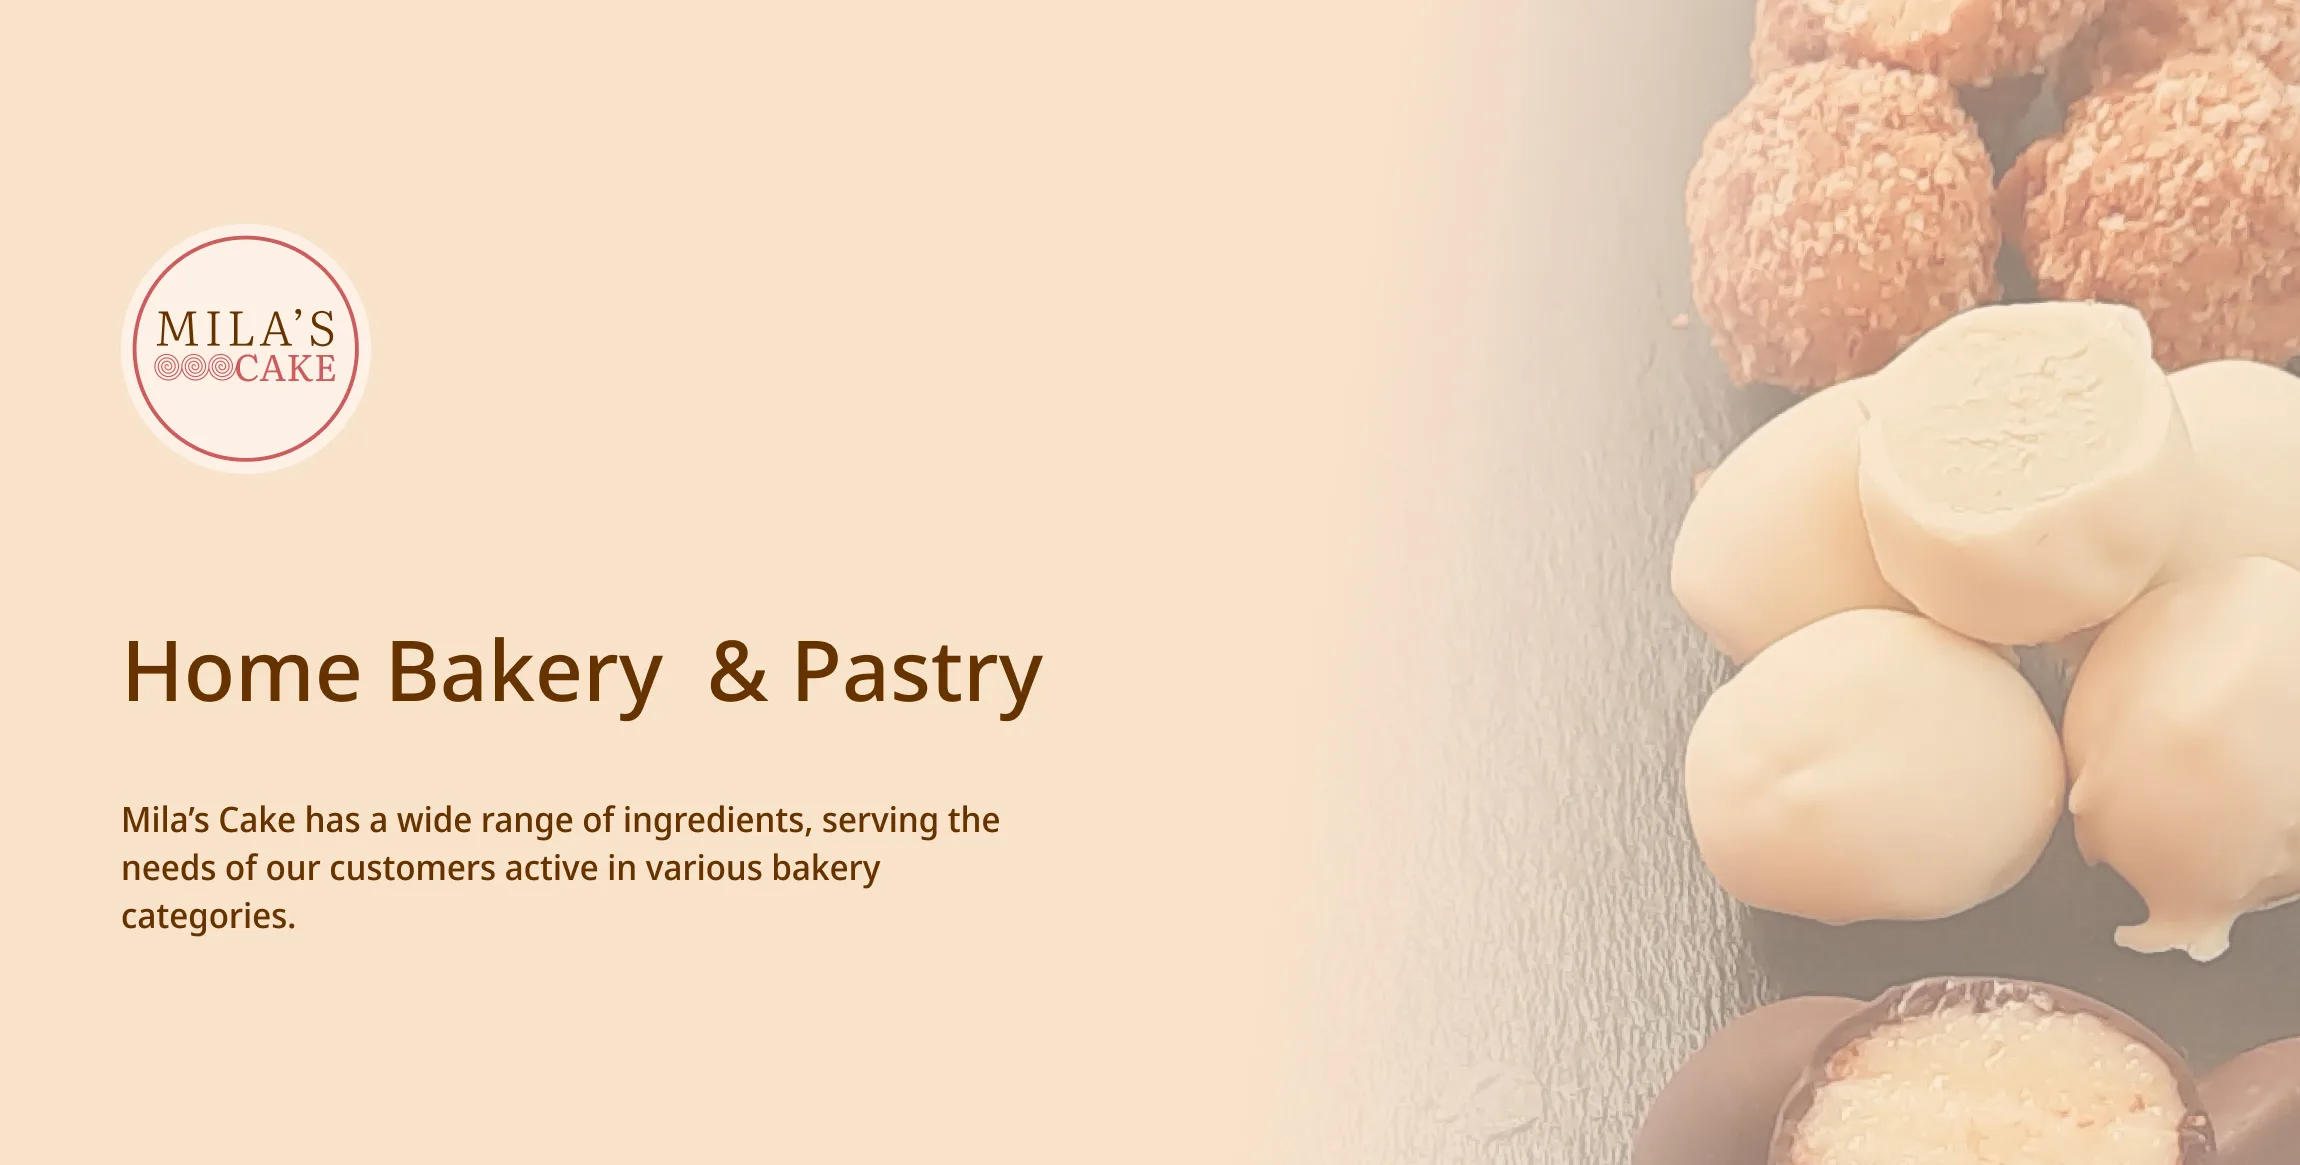
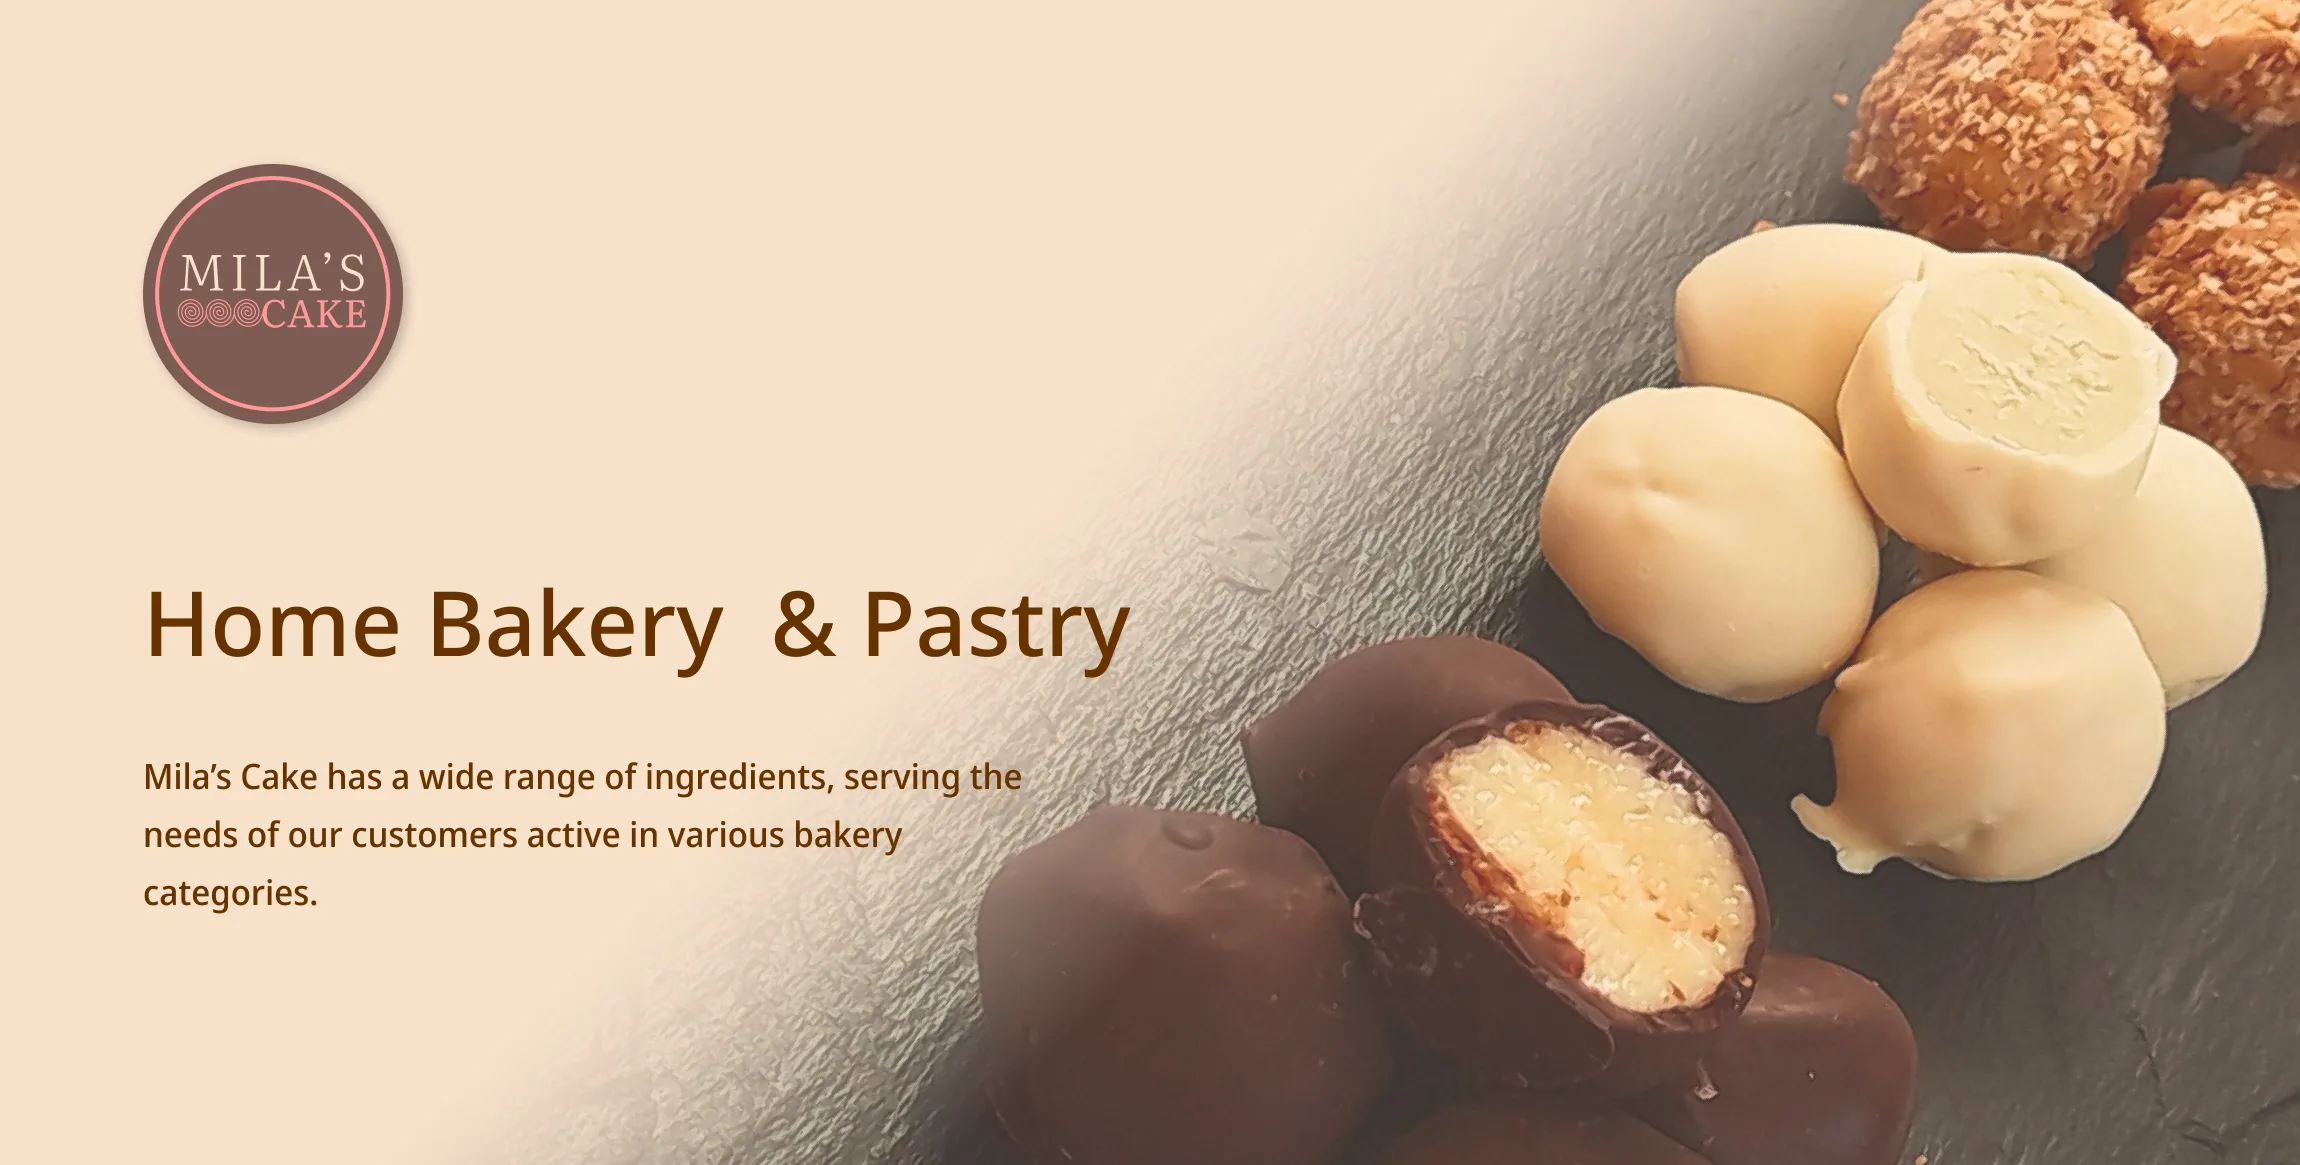
change hero baner

diff --git a/src/components/NavMenu/NavMenu.jsx b/src/components/NavMenu/NavMenu.jsx
@@ -1,12 +1,12 @@
 import React from 'react';
 import { NavLink } from 'react-router-dom';
-import classnames from 'classnames';
 import styles from './styles.module.css';
 import { useState } from 'react';
 import { Button } from '../Button/Button';
 import useOnclickOutside from 'react-cool-onclickoutside';
 import { useContext } from 'react';
 import { ThemeContext } from '../ThemeContextProvider/ThemeContext';
+import classnames from 'classnames';
 
 export const NavMenu = ({ className }) => {
   const [open, setOpen] = useState(false);
@@ -40,27 +40,27 @@ export const NavMenu = ({ className }) => {
           theme === 'default' ? styles.dark : 'default'
         )}
       >
-        <li className={className}>
+        <li className={classnames(className, styles.navLink) }>
           <NavLink className={activeClass} to="/">
             home
           </NavLink>
         </li>
-        <li className={className}>
+        <li className={classnames(className, styles.navLink) }>
           <NavLink className={activeClass} to="/products">
             products
           </NavLink>
         </li>
-        <li className={className}>
+        <li className={classnames(className, styles.navLink) }>
           <NavLink className={activeClass} to="/location">
             location
           </NavLink>
         </li>
-        <li className={className}>
+        <li className={classnames(className, styles.navLink) }>
           <NavLink className={activeClass} to="/delivery">
             delivery
           </NavLink>
         </li>
-        <li className={className}>
+        <li className={classnames(className, styles.navLink) }>
           <NavLink className={activeClass} to="/recipes">
             recipes
           </NavLink>

diff --git a/src/components/SectionHero/SectionHero.jsx b/src/components/SectionHero/SectionHero.jsx
@@ -2,9 +2,14 @@ import React from "react";
 import classnames from 'classnames';
 import styles from './styles.module.css';
 import intorImg from './img/desktop.webp';
-import intorImgMobile from './img/mob.webp';
+import intorImgMobile from './img/mobile.webp';
+import { useWindowScroll } from '../../hooks/useWindowScroll';
+
+import AnchorLink from 'react-anchor-link-smooth-scroll';
 
 export const SectionHero = ({className}) => {
+  const { sticky } = useWindowScroll();
+
 
    return (
      <section className={classnames(styles.root, className)}>
@@ -21,6 +26,16 @@ export const SectionHero = ({className}) => {
          />
          <img src={intorImg} alt="img" />
        </picture>
+
+       <AnchorLink
+         offset="79"
+         href="#newDesserts"
+         className={classnames(styles.button, className, {
+           [styles.hidden]: sticky.isSticky,
+         })}
+       >
+         &#8659;
+       </AnchorLink>
      </section>
    );
 }

diff --git a/src/components/SectionNewDesserts/SectionNewDesserts.jsx b/src/components/SectionNewDesserts/SectionNewDesserts.jsx
@@ -21,8 +21,8 @@ export const SectionNewDesserts = () => {
   );
 
   return (
-    <section className={classnames(styles.root)}>
-      <h1 className={styles.title}>New Seasonal Desserts</h1>
+    <section id="newDesserts" className={classnames(styles.root)}>
+      <h2 className={styles.title}>New Seasonal Desserts</h2>
       <div className={styles.buttonConteiner}>
         <div className={styles.carouselInner}>
           <Products
@@ -35,13 +35,13 @@ export const SectionNewDesserts = () => {
           onClick={leftTranslate}
           className={classnames(styles.buttonCarousel, styles.buttonLeft)}
         >
-          {'<'}
+          &laquo;
         </Button>
         <Button
           onClick={rightTranslate}
           className={classnames(styles.buttonCarousel, styles.buttonRight)}
         >
-          {'>'}
+          &raquo;
         </Button>
       </div>
     </section>

diff --git a/src/components/SectionHero/styles.module.css b/src/components/SectionHero/styles.module.css
@@ -1,5 +1,48 @@
+.root{
+    position: relative;
+}
 .root img {
     height: auto;
     width: 100%;
 
+}
+.button{
+background-color: var(--Linen);
+border-radius: 20px;
+padding: 17px 10px;
+position: absolute;
+font-weight: 700;
+font-size: 2rem;
+top: 76%;
+right: 100px;
+box-shadow: rgba(0, 0, 0, 0.1) 0px 1px 3px 0px, rgba(0, 0, 0, 0.06) 0px 1px 2px 0px;
+}
+.button:hover {
+    background-color: var(--MexicanRed);
+    color: var(--Linen);
+}
+.hidden {
+    animation: fadeScroll .5s forwards ease;
+}
+
+@keyframes fadeScroll {
+        0% {
+                transform: scaleY(1);
+        }
+
+        100% {
+                transform: scaleY(0);
+        }
+}
+
+@media screen and (max-width: 767px) {
+
+    .button {
+        width: 36px;
+        height: 75px;
+        padding-top: 27px;
+        top: 60%;
+        left: 50%;
+        transform: translate(-50%, 50%);
+    }
 }

diff --git a/src/components/NavMenu/styles.module.css b/src/components/NavMenu/styles.module.css
@@ -6,8 +6,29 @@
 }
 
 .active {
-    border-bottom: 2px solid ghostwhite;
+    border-bottom: 1px solid ghostwhite;
     cursor: default;
+    padding-bottom: 4px;
+}
+
+.navLink{
+    position: relative;
+}
+.navLink::before {
+    content: "";
+    position: absolute;
+    left: 0;
+    bottom: -5px;
+    width:100%;
+    height: 1px;
+    z-index: -1;
+    background-color: ghostwhite;
+    transform: scaleX(0);
+    transition: transform .4s ease;
+}
+
+.navLink:hover::before {
+    transform: scaleX(1);
 }
 
 .nav button {
@@ -91,7 +112,7 @@
     }
 
     .navOpen .list li {
-        margin: 35px 0;
+        margin: 65px 0;
     }
 }
 

diff --git a/src/components/SectionCakes/SectionCakes.jsx b/src/components/SectionCakes/SectionCakes.jsx
@@ -15,7 +15,9 @@ export const SectionCakes = () => {
     <section className={styles.root}>
       <h2 className={styles.title}>Cakes</h2>
       <Products
-        className={classnames(styles.list, { [styles.fullSizeStyle]: fullSize })}
+        className={classnames(styles.list, {
+          [styles.fullSizeStyle]: fullSize,
+        })}
         productId={cakeProductId}
       />
       <Button
@@ -24,7 +26,7 @@ export const SectionCakes = () => {
         })}
         onClick={() => setfullSize(!fullSize)}
       >
-        {'V'}
+        &or;
       </Button>
     </section>
   );

diff --git a/src/components/Theme/styles.module.css b/src/components/Theme/styles.module.css
@@ -1,12 +1,13 @@
 .root{
         padding: 12px;
         box-shadow: none;
+        position: fixed;
 }
 .sticky {
         animation: fadeScroll .5s forwards ease;
 }
 
-@keyframes fadeScroll {
+/* @keyframes fadeScroll {
         0% {
                 transform: scaleY(1);
         }
@@ -14,7 +15,7 @@
         100% {
                 transform: scaleY(0);
         }
-}
+} */
 @media screen and (max-width: 767px) {
         .root {
                 padding: 5px;

diff --git a/src/components/Reviews/Reviews.jsx b/src/components/Reviews/Reviews.jsx
@@ -33,13 +33,13 @@ export const Reviews = () => {
           onClick={leftTranslate}
           className={classnames(styles.buttonCarousel, styles.buttonLeft)}
         >
-          {'<'}
+          &laquo;
         </Button>
         <Button
           onClick={rightTranslate}
           className={classnames(styles.buttonCarousel, styles.buttonRight)}
         >
-          {'>'}
+          &raquo;
         </Button>
       </div>
     </section>

diff --git a/src/components/SectionFeatures/styles.module.css b/src/components/SectionFeatures/styles.module.css
@@ -6,8 +6,7 @@
     background-position: center;
 }
 .title {
-    font-size: 3.5rem;
-    font-weight: 700;
+    font-size: 3rem;
     letter-spacing: .5rem;
     margin: 0;
     padding: 25px 0;
@@ -37,6 +36,7 @@
     position: relative;
     justify-self: center;
     align-self: center;
+    text-transform: capitalize;
     width: 350px;
     height: 350px;
     padding: 20px;

diff --git a/src/components/SectionFeatures/SectionFeatures.jsx b/src/components/SectionFeatures/SectionFeatures.jsx
@@ -39,9 +39,7 @@ export const SectionFeatures = () => {
           <span>
             <DesertIcon />
           </span>
-          <p className={styles.text}>
-            Large assortment of bakery <br /> and pastry products
-          </p>
+          <p className={styles.text}>Desserts For <br/> Every Season</p>
         </div>
       </div>
     </section>

diff --git a/src/components/SectionNewDesserts/styles.module.css b/src/components/SectionNewDesserts/styles.module.css
@@ -20,7 +20,7 @@
     transition: all 0.6s cubic-bezier(0, .19, .71, .98);
 }
 .title {
-    font-size: 3rem;
+    font-size: 2.5rem;
     margin: 0;
     padding: 25px 0;
     color: var(--Tacao);

diff --git a/src/components/SectionPastries/SectionPastries.jsx b/src/components/SectionPastries/SectionPastries.jsx
@@ -26,7 +26,7 @@ export const SectionPastries = () => {
         })}
         onClick={() => setfullSize(!fullSize)}
       >
-        {'V'}
+        &or;
       </Button>
     </section>
   );
